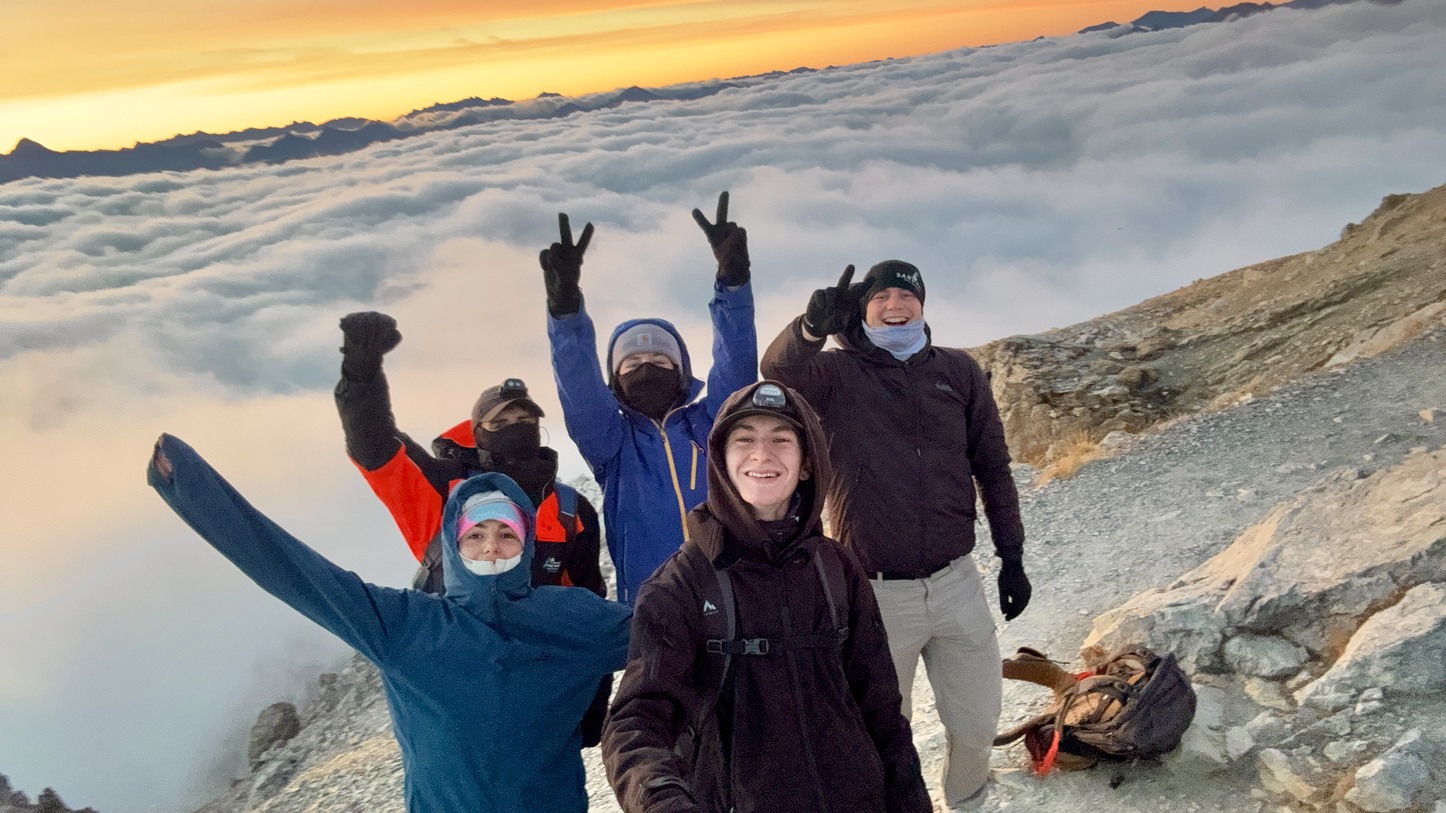
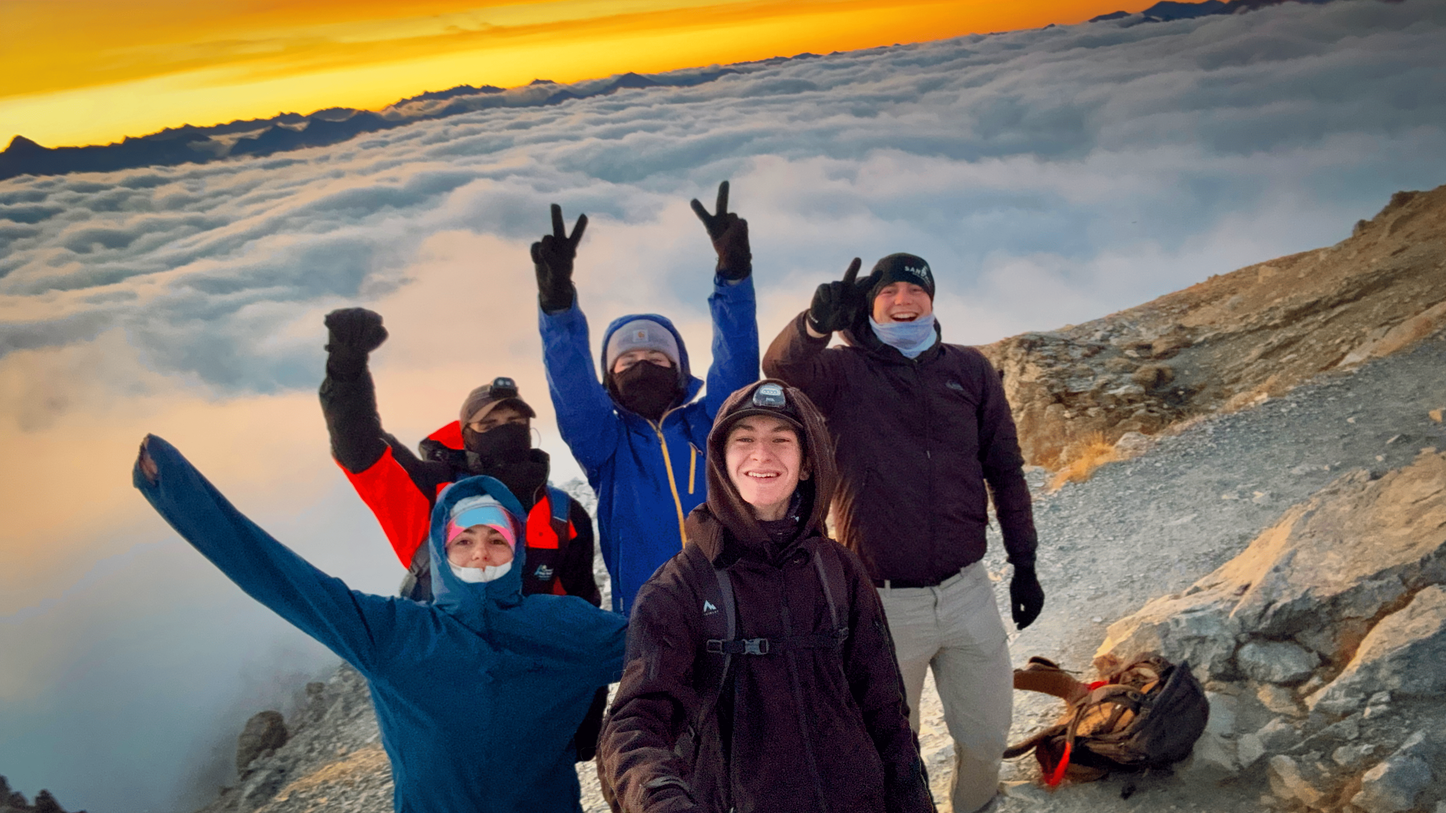
Mise a jour experience 2.1

diff --git a/app/components/Experience.tsx b/app/components/Experience.tsx
@@ -1,32 +1,50 @@
 "use client";
 
 import { AnimatePresence, motion } from "motion/react";
-import { useState } from "react";
+import { useEffect, useState } from "react";
 
 type ImageKey = "sophie" | "frj" | "vaianni";
 
-const images = {
+const images: Record<
+  ImageKey,
+  {
+    photos: string[];
+    alt: string;
+  }
+> = {
   sophie: {
-    src: "/sophie.jpg",
+    photos: ["/sophie.jpg", "/sophie2.jpg", "/sophie3.jpg"],
     alt: "Sophie LeBreuilly — Boulangerie",
   },
+
   frj: {
-    src: "/frj.jpg",
+    photos: ["/frj.jpg", "/frj2.jpg"],
     alt: "FRJ Location — Hertz",
   },
+
   vaianni: {
-    src: "/vaianni.jpg",
-    alt: "Vaianni — Mécanique automobile",
+    photos: ["/vaianni.jpg"],
+    alt: "Garage Richard Vaianni — Mécanique automobile",
   },
 };
 
 export default function Experience() {
   const [activeImage, setActiveImage] = useState<ImageKey | null>(null);
 
+  const [previewIndex, setPreviewIndex] = useState(0);
+
+  const [isGalleryOpen, setIsGalleryOpen] = useState(false);
+
+  const [galleryIndex, setGalleryIndex] = useState(0);
+
   const [imagePosition, setImagePosition] = useState({
     x: 0,
     y: 0,
   });
+
+  // =========================
+  // POSITION DE L'APERÇU
+  // =========================
 
   const handleMouseEnter = (
     event: React.MouseEvent<HTMLSpanElement>,
@@ -59,12 +77,104 @@ export default function Experience() {
       y,
     });
 
+    setPreviewIndex(0);
     setActiveImage(image);
   };
+
+  // =========================
+  // CHANGEMENT AUTOMATIQUE
+  // =========================
+
+  useEffect(() => {
+    if (!activeImage) return;
+
+    const photos = images[activeImage].photos;
+
+    if (photos.length <= 1) return;
+
+    const interval = setInterval(() => {
+      setPreviewIndex((current) => (current + 1) % photos.length);
+    }, 5000);
+
+    return () => clearInterval(interval);
+  }, [activeImage]);
+
+  // =========================
+  // OUVRIR GALERIE
+  // =========================
+
+  const openGallery = () => {
+    if (!activeImage) return;
+
+    setGalleryIndex(previewIndex);
+    setIsGalleryOpen(true);
+  };
+
+  // =========================
+  // FERMER GALERIE
+  // =========================
+
+  const closeGallery = () => {
+    setIsGalleryOpen(false);
+  };
+
+  // =========================
+  // PHOTO SUIVANTE
+  // =========================
+
+  const nextPhoto = () => {
+    if (!activeImage) return;
+
+    const photos = images[activeImage].photos;
+
+    setGalleryIndex((current) => (current + 1) % photos.length);
+  };
+
+  // =========================
+  // PHOTO PRÉCÉDENTE
+  // =========================
+
+  const previousPhoto = () => {
+    if (!activeImage) return;
+
+    const photos = images[activeImage].photos;
+
+    setGalleryIndex((current) => (current - 1 + photos.length) % photos.length);
+  };
+
+  // =========================
+  // CLAVIER
+  // =========================
+
+  useEffect(() => {
+    if (!isGalleryOpen) return;
+
+    const handleKeyDown = (event: KeyboardEvent) => {
+      if (event.key === "Escape") {
+        closeGallery();
+      }
+
+      if (event.key === "ArrowRight") {
+        nextPhoto();
+      }
+
+      if (event.key === "ArrowLeft") {
+        previousPhoto();
+      }
+    };
+
+    window.addEventListener("keydown", handleKeyDown);
+
+    return () => window.removeEventListener("keydown", handleKeyDown);
+  }, [isGalleryOpen, activeImage]);
 
   return (
     <section id="experience" className="section relative">
       <div className="container-site">
+        {/* =========================
+            TITRE
+        ========================= */}
+
         <div className="mb-16">
           <p className="mb-4 text-sm uppercase tracking-[0.2em] text-zinc-500">
             Expérience
@@ -77,7 +187,10 @@ export default function Experience() {
         </div>
 
         <div className="space-y-16">
-          {/* Sophie LeBreuilly */}
+          {/* =========================
+              SOPHIE
+          ========================= */}
+
           <div className="grid gap-6 border-t border-white/10 pt-8 md:grid-cols-[180px_1fr]">
             <div>
               <p className="text-sm text-zinc-500">2023 — 2025</p>
@@ -109,7 +222,10 @@ export default function Experience() {
             </div>
           </div>
 
-          {/* FRJ Location — Hertz */}
+          {/* =========================
+              FRJ LOCATION
+          ========================= */}
+
           <div className="grid gap-6 border-t border-white/10 pt-8 md:grid-cols-[180px_1fr]">
             <div>
               <p className="text-sm text-zinc-500">2025 — 2026</p>
@@ -148,7 +264,10 @@ export default function Experience() {
             </div>
           </div>
 
-          {/* Mécanique */}
+          {/* =========================
+              GARAGE RICHARD VAIANNI
+          ========================= */}
+
           <div className="grid gap-6 border-t border-white/10 pt-8 md:grid-cols-[180px_1fr]">
             <div>
               <p className="text-sm text-zinc-500">2026</p>
@@ -180,7 +299,10 @@ export default function Experience() {
             </div>
           </div>
 
-          {/* Suisse */}
+          {/* =========================
+              SUISSE
+          ========================= */}
+
           <div className="grid gap-6 border-t border-white/10 pt-8 md:grid-cols-[180px_1fr]">
             <div>
               <p className="text-sm text-zinc-500">2026 — aujourd'hui</p>
@@ -205,9 +327,12 @@ export default function Experience() {
         </div>
       </div>
 
-      {/* Image au survol */}
+      {/* =========================
+          APERÇU AU SURVOL
+      ========================= */}
+
       <AnimatePresence>
-        {activeImage && (
+        {activeImage && !isGalleryOpen && (
           <motion.div
             key={activeImage}
             initial={{
@@ -230,13 +355,151 @@ export default function Experience() {
               left: imagePosition.x,
               top: imagePosition.y,
             }}
-            className="pointer-events-none fixed z-50 hidden w-[400px] overflow-hidden rounded-2xl border border-white/10 bg-black/40 shadow-2xl backdrop-blur-xl lg:block"
+            onClick={openGallery}
+            className="pointer-events-auto fixed z-50 hidden w-[400px] cursor-pointer overflow-hidden rounded-2xl border border-white/10 bg-black/40 shadow-2xl backdrop-blur-xl lg:block"
           >
-            <img
-              src={images[activeImage].src}
-              alt={images[activeImage].alt}
-              className="aspect-[4/3] w-full object-cover"
-            />
+            <AnimatePresence mode="wait">
+              <motion.img
+                key={previewIndex}
+                src={images[activeImage].photos[previewIndex]}
+                alt={images[activeImage].alt}
+                initial={{
+                  opacity: 0,
+                }}
+                animate={{
+                  opacity: 1,
+                }}
+                exit={{
+                  opacity: 0,
+                }}
+                transition={{
+                  duration: 0.8,
+                }}
+                className="aspect-[4/3] w-full object-cover"
+              />
+            </AnimatePresence>
+
+            {/* Points */}
+
+            {images[activeImage].photos.length > 1 && (
+              <div className="absolute bottom-3 left-1/2 flex -translate-x-1/2 gap-1.5 rounded-full bg-black/50 px-3 py-2 backdrop-blur-md">
+                {images[activeImage].photos.map((_, index) => (
+                  <span
+                    key={index}
+                    className={`h-1.5 w-1.5 rounded-full transition ${
+                      index === previewIndex ? "bg-white" : "bg-white/30"
+                    }`}
+                  />
+                ))}
+              </div>
+            )}
+          </motion.div>
+        )}
+      </AnimatePresence>
+
+      {/* =========================
+          GALERIE
+      ========================= */}
+
+      <AnimatePresence>
+        {activeImage && isGalleryOpen && (
+          <motion.div
+            initial={{
+              opacity: 0,
+            }}
+            animate={{
+              opacity: 1,
+            }}
+            exit={{
+              opacity: 0,
+            }}
+            className="fixed inset-0 z-[100] flex items-center justify-center bg-black/70 p-5 backdrop-blur-md"
+            onClick={closeGallery}
+          >
+            <motion.div
+              initial={{
+                opacity: 0,
+                scale: 0.95,
+              }}
+              animate={{
+                opacity: 1,
+                scale: 1,
+              }}
+              exit={{
+                opacity: 0,
+                scale: 0.95,
+              }}
+              className="relative flex max-h-[90vh] max-w-[90vw] items-center justify-center"
+              onClick={(event) => event.stopPropagation()}
+            >
+              {/* IMAGE */}
+
+              <AnimatePresence mode="wait">
+                <motion.img
+                  key={galleryIndex}
+                  src={images[activeImage].photos[galleryIndex]}
+                  alt={images[activeImage].alt}
+                  initial={{
+                    opacity: 0,
+                    scale: 0.98,
+                  }}
+                  animate={{
+                    opacity: 1,
+                    scale: 1,
+                  }}
+                  exit={{
+                    opacity: 0,
+                    scale: 0.98,
+                  }}
+                  transition={{
+                    duration: 0.25,
+                  }}
+                  className="max-h-[85vh] max-w-[90vw] rounded-2xl object-contain shadow-2xl"
+                />
+              </AnimatePresence>
+
+              {/* FERMER */}
+
+              <button
+                onClick={closeGallery}
+                className="absolute right-4 top-4 flex h-10 w-10 items-center justify-center rounded-full bg-black/60 text-xl text-white backdrop-blur-md transition hover:bg-black/80"
+                aria-label="Fermer"
+              >
+                ×
+              </button>
+
+              {/* PRÉCÉDENTE */}
+
+              {images[activeImage].photos.length > 1 && (
+                <button
+                  onClick={previousPhoto}
+                  className="absolute left-4 top-1/2 flex h-12 w-12 -translate-y-1/2 items-center justify-center rounded-full bg-black/60 text-2xl text-white backdrop-blur-md transition hover:bg-black/80"
+                  aria-label="Photo précédente"
+                >
+                  ←
+                </button>
+              )}
+
+              {/* SUIVANTE */}
+
+              {images[activeImage].photos.length > 1 && (
+                <button
+                  onClick={nextPhoto}
+                  className="absolute right-4 top-1/2 flex h-12 w-12 -translate-y-1/2 items-center justify-center rounded-full bg-black/60 text-2xl text-white backdrop-blur-md transition hover:bg-black/80"
+                  aria-label="Photo suivante"
+                >
+                  →
+                </button>
+              )}
+
+              {/* COMPTEUR */}
+
+              {images[activeImage].photos.length > 1 && (
+                <div className="absolute bottom-4 left-1/2 -translate-x-1/2 rounded-full bg-black/60 px-4 py-2 text-sm text-white backdrop-blur-md">
+                  {galleryIndex + 1} / {images[activeImage].photos.length}
+                </div>
+              )}
+            </motion.div>
           </motion.div>
         )}
       </AnimatePresence>
